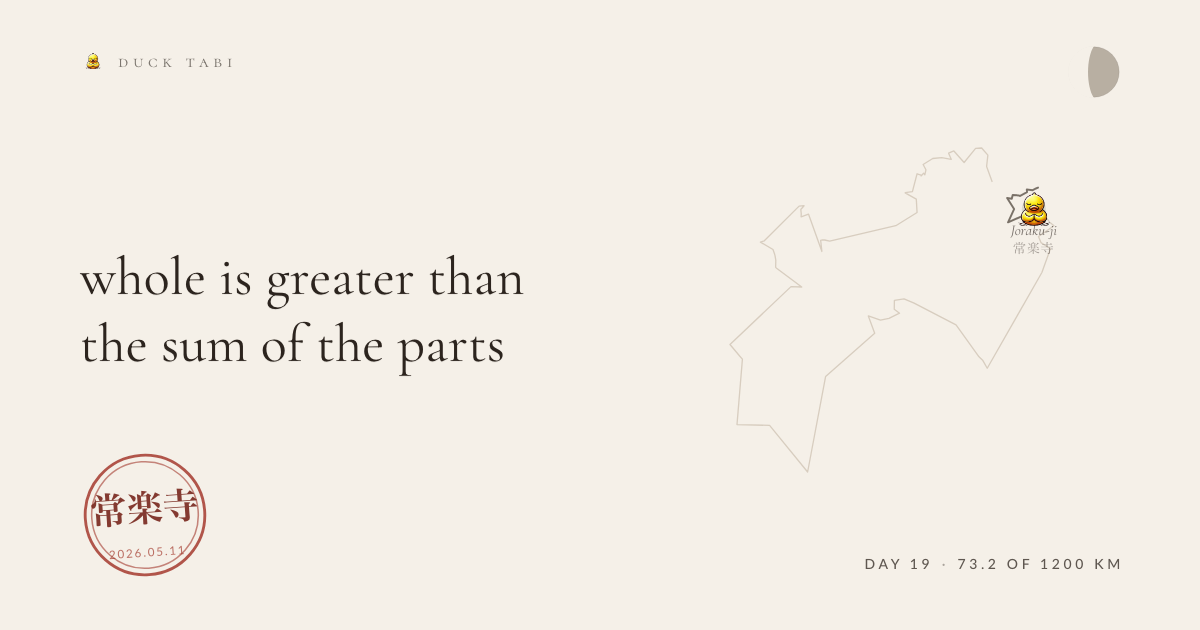
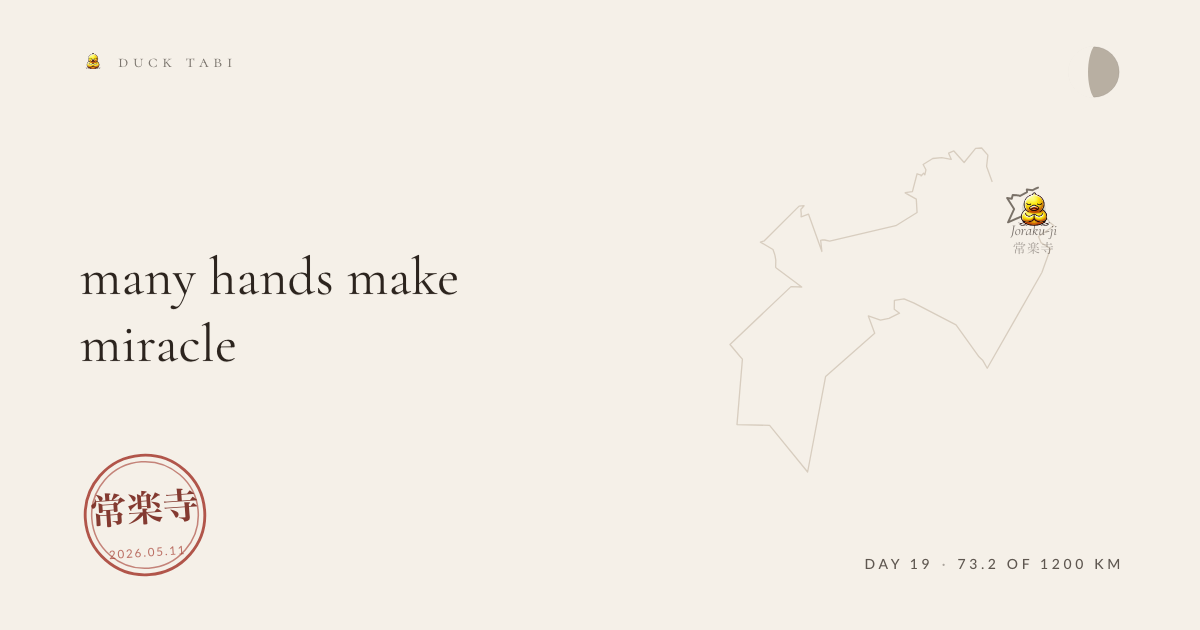
the duck walks

Changed region(s): [[0.0617, 0.4222, 0.4317, 0.4825], [0.0617, 0.5127, 0.4317, 0.6032]]

diff --git a/entries/2026-05-11-meditation.md b/entries/2026-05-11-meditation.md
@@ -1,0 +1,14 @@
+---
+date: '2026-05-11'
+route: shikoku-88
+stage: 14
+stageName: Joraku-ji
+coords: [134.476, 34.05]
+kind: meditation
+glyph: 🌿
+weather: clear, 15°C
+kmFromStart: 73.2
+heardId: 85b7c447
+---
+
+many hands make miracle
